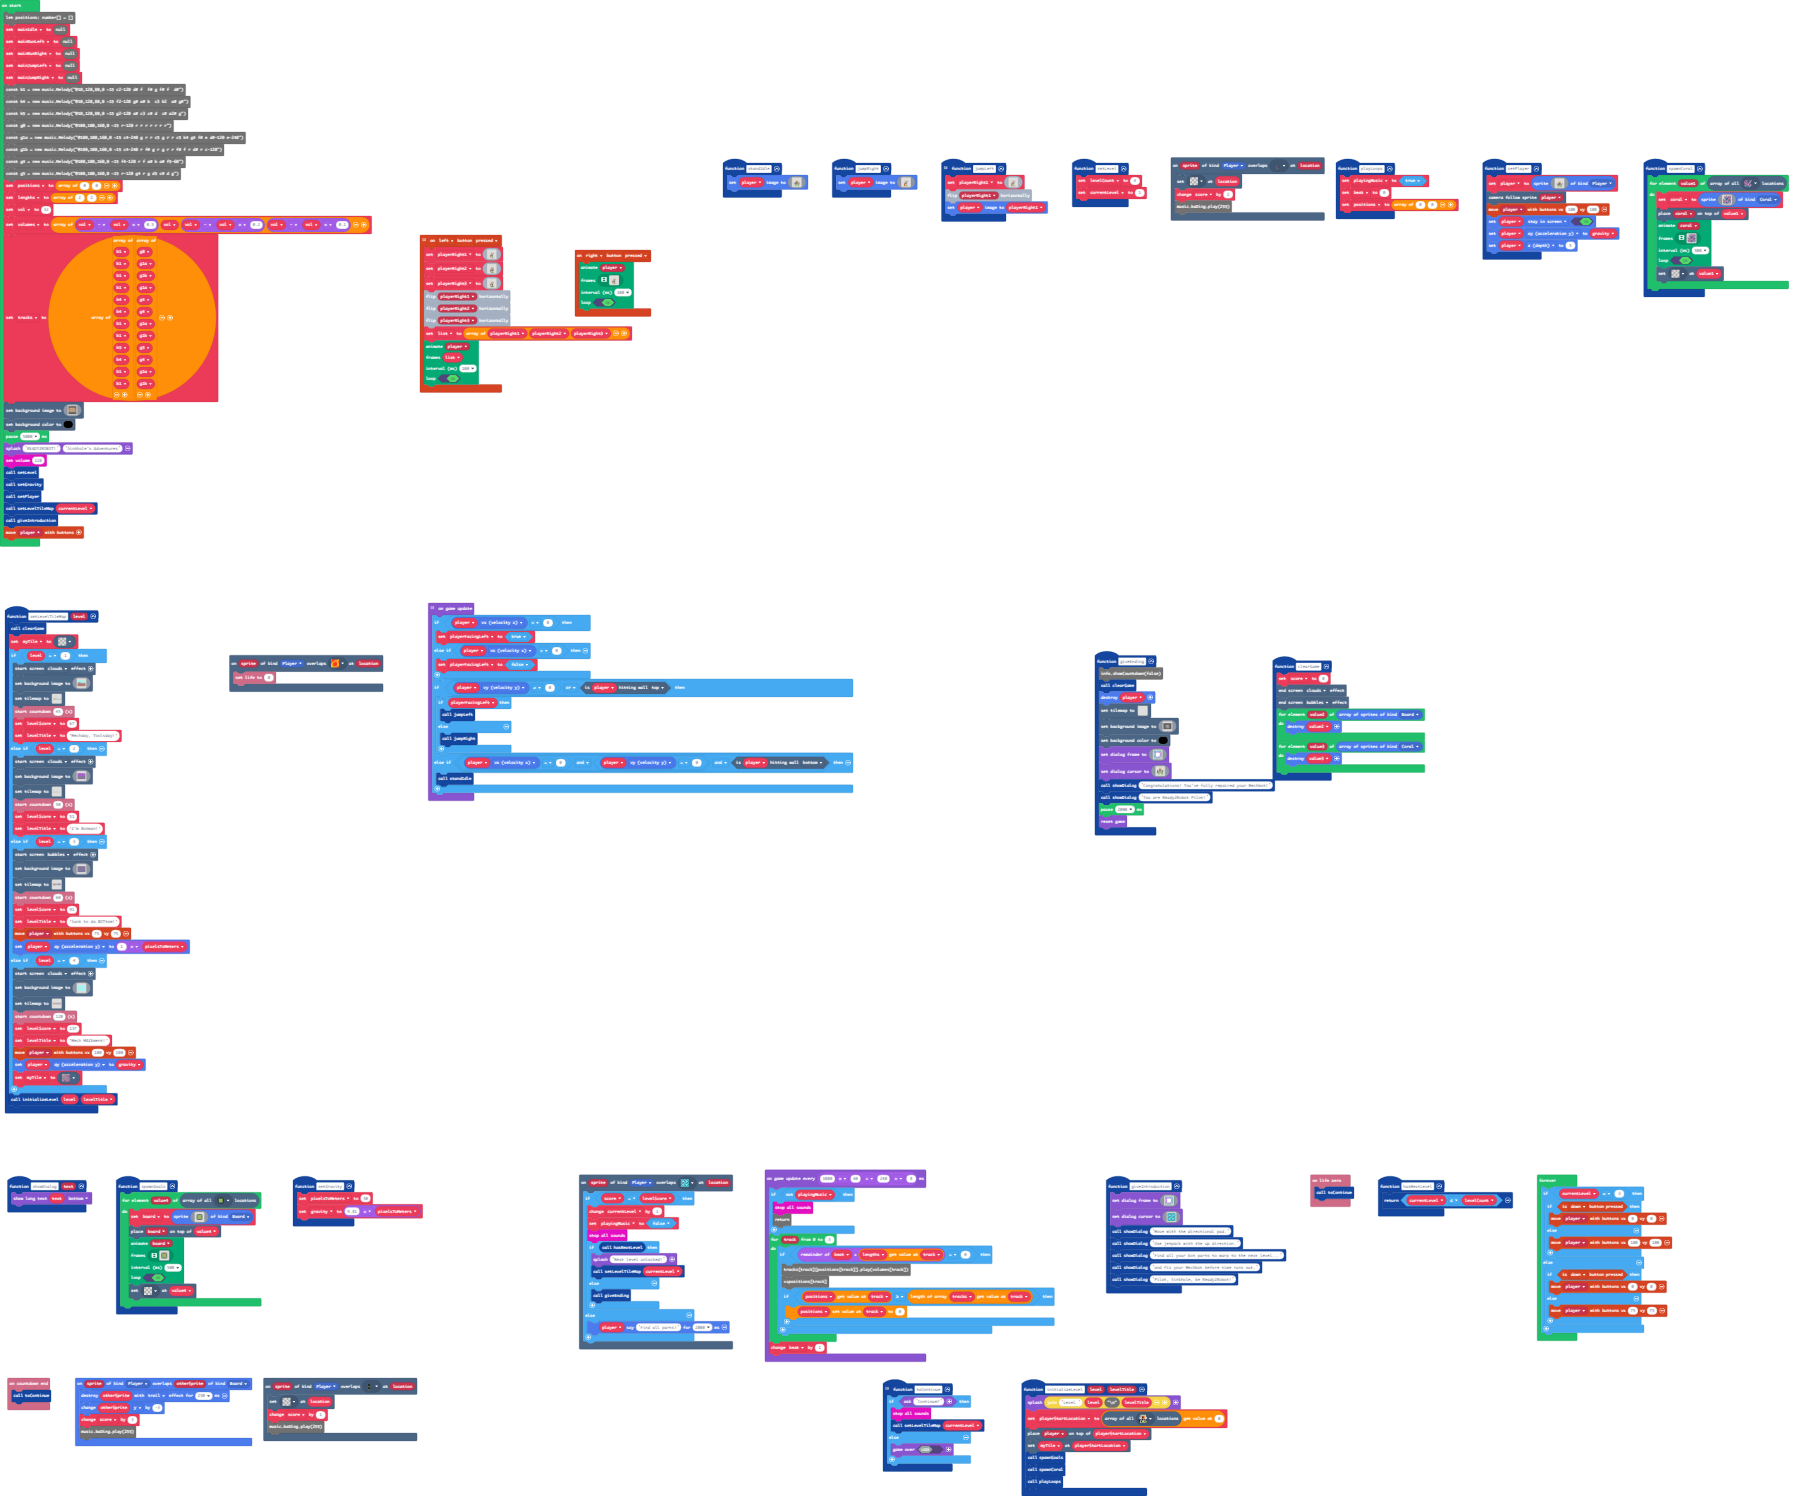
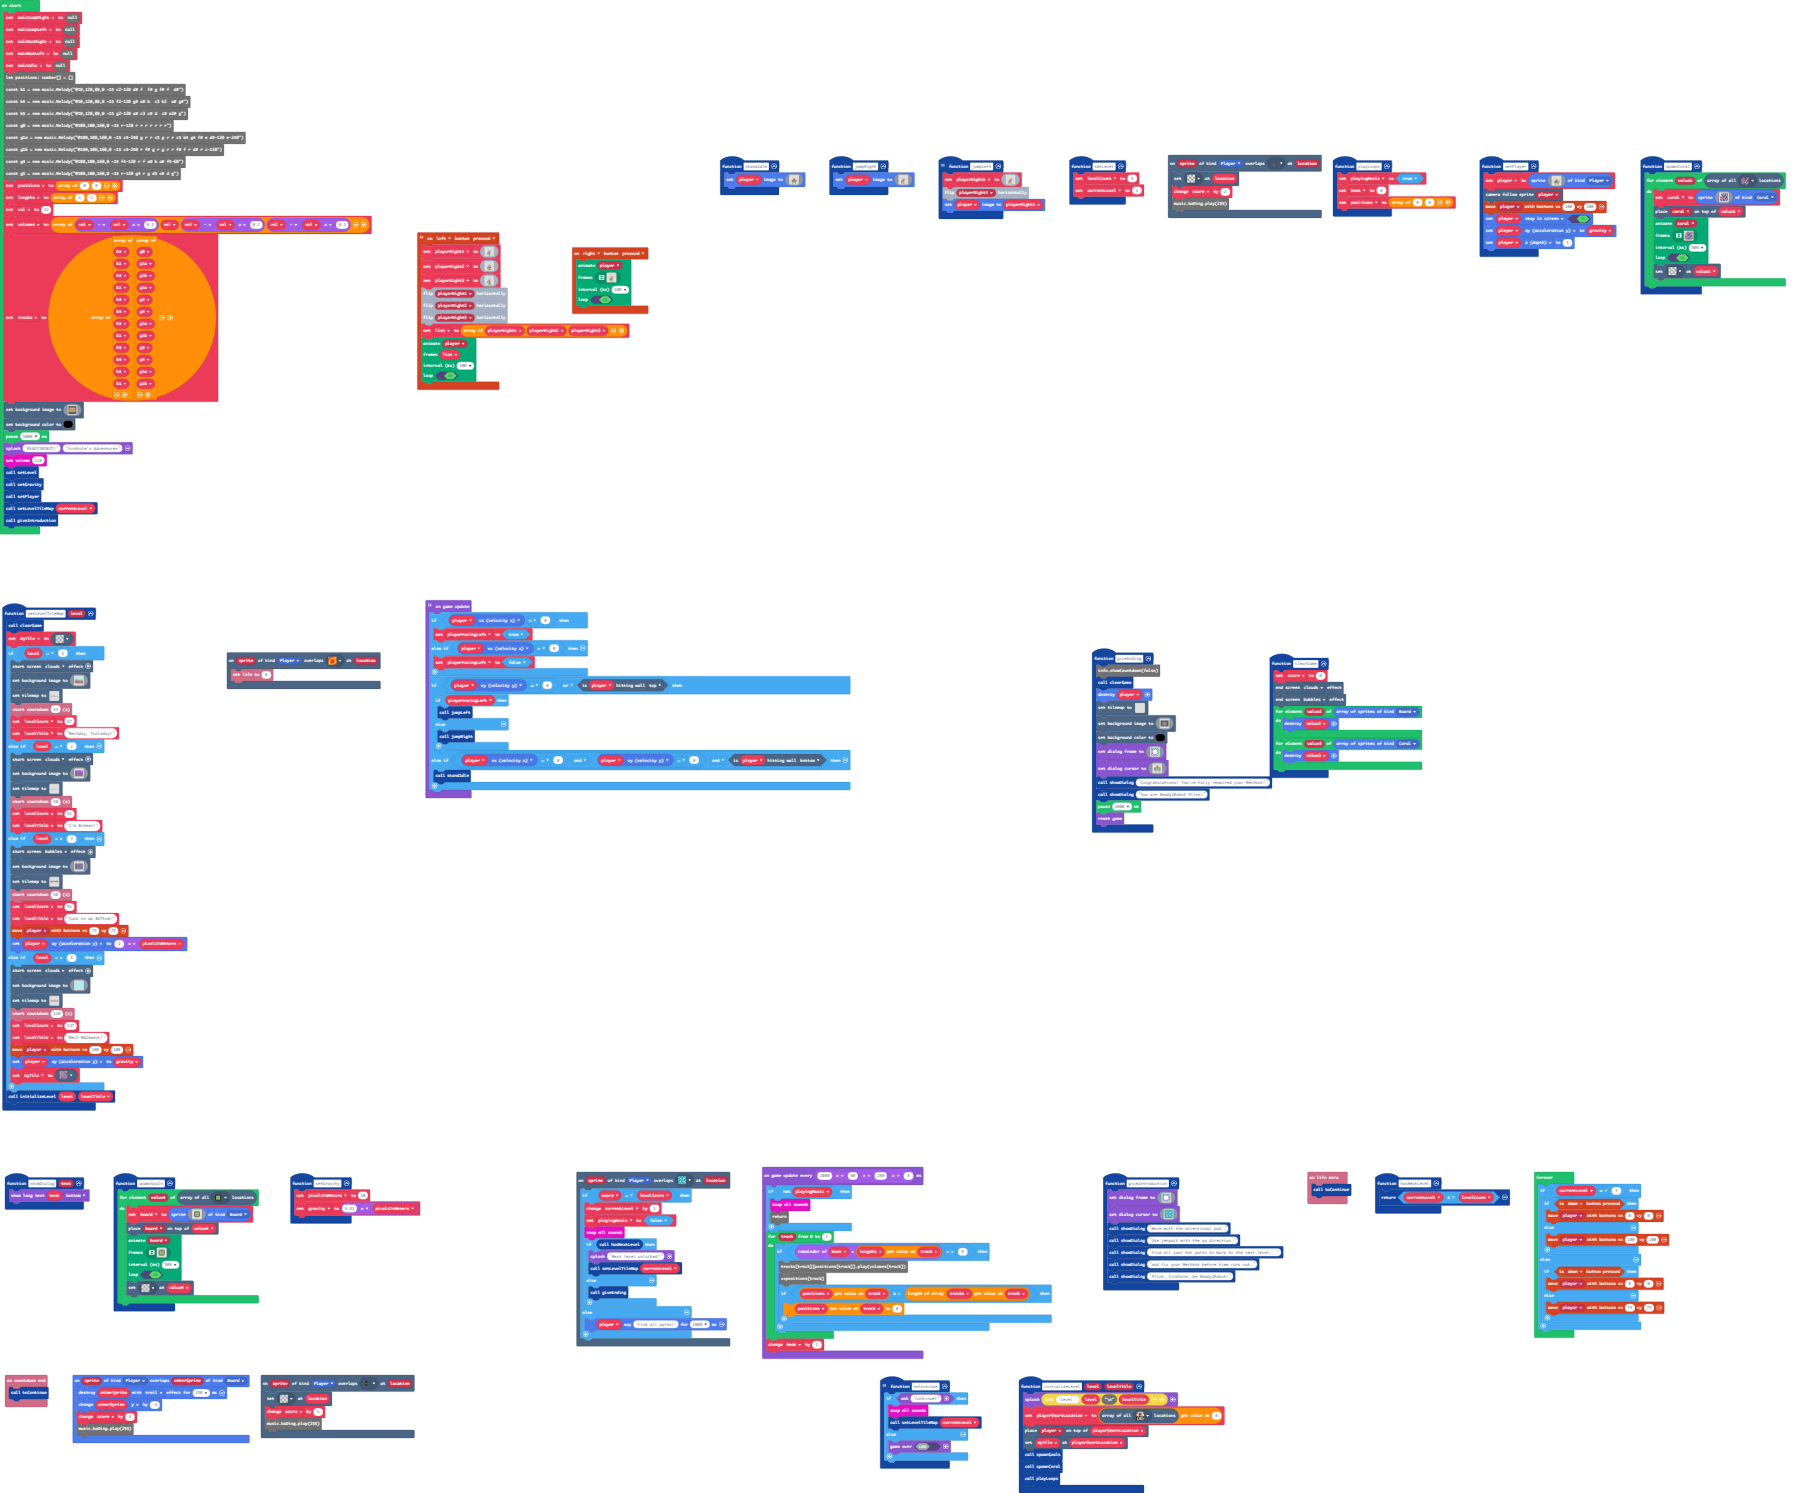
Update pxt.json, main.blocks, main.ts

diff --git a/main.ts b/main.ts
@@ -1884,19 +1884,19 @@ let levelScore = 0
 let myTile: Image = null
 let coral: Sprite = null
 let gravity = 0
+let player: Sprite = null
 let playerRight1: Image = null
 let beat = 0
 let playingMusic = false
 let score = 0
 let levelCount = 0
-let player: Sprite = null
 let currentLevel = 0
-let positions: number[] = []
-let mainIdle = null
-let mainRunLeft = null
-let mainRunRight = null
-let mainJumpLeft = null
 let mainJumpRight = null
+let mainJumpLeft = null
+let mainRunRight = null
+let mainRunLeft = null
+let mainIdle = null
+let positions: number[] = []
 const b1 = new music.Melody("@10,120,80,0 ~15 c2-120 d# f  f# g f# f  d#")
 const b4 = new music.Melody("@10,120,80,0 ~15 f2-120 g# a# b  c3 b2  a# g#")
 const b5 = new music.Melody("@10,120,80,0 ~15 g2-120 a# c3 c# d  c# a2# g")
@@ -2107,7 +2107,6 @@ setGravity()
 setPlayer()
 setLevelTileMap(currentLevel)
 giveIntroduction()
-controller.moveSprite(player)
 // initializePlayerAnimations()
 game.onUpdate(function () {
     if (player.vx < 0) {
